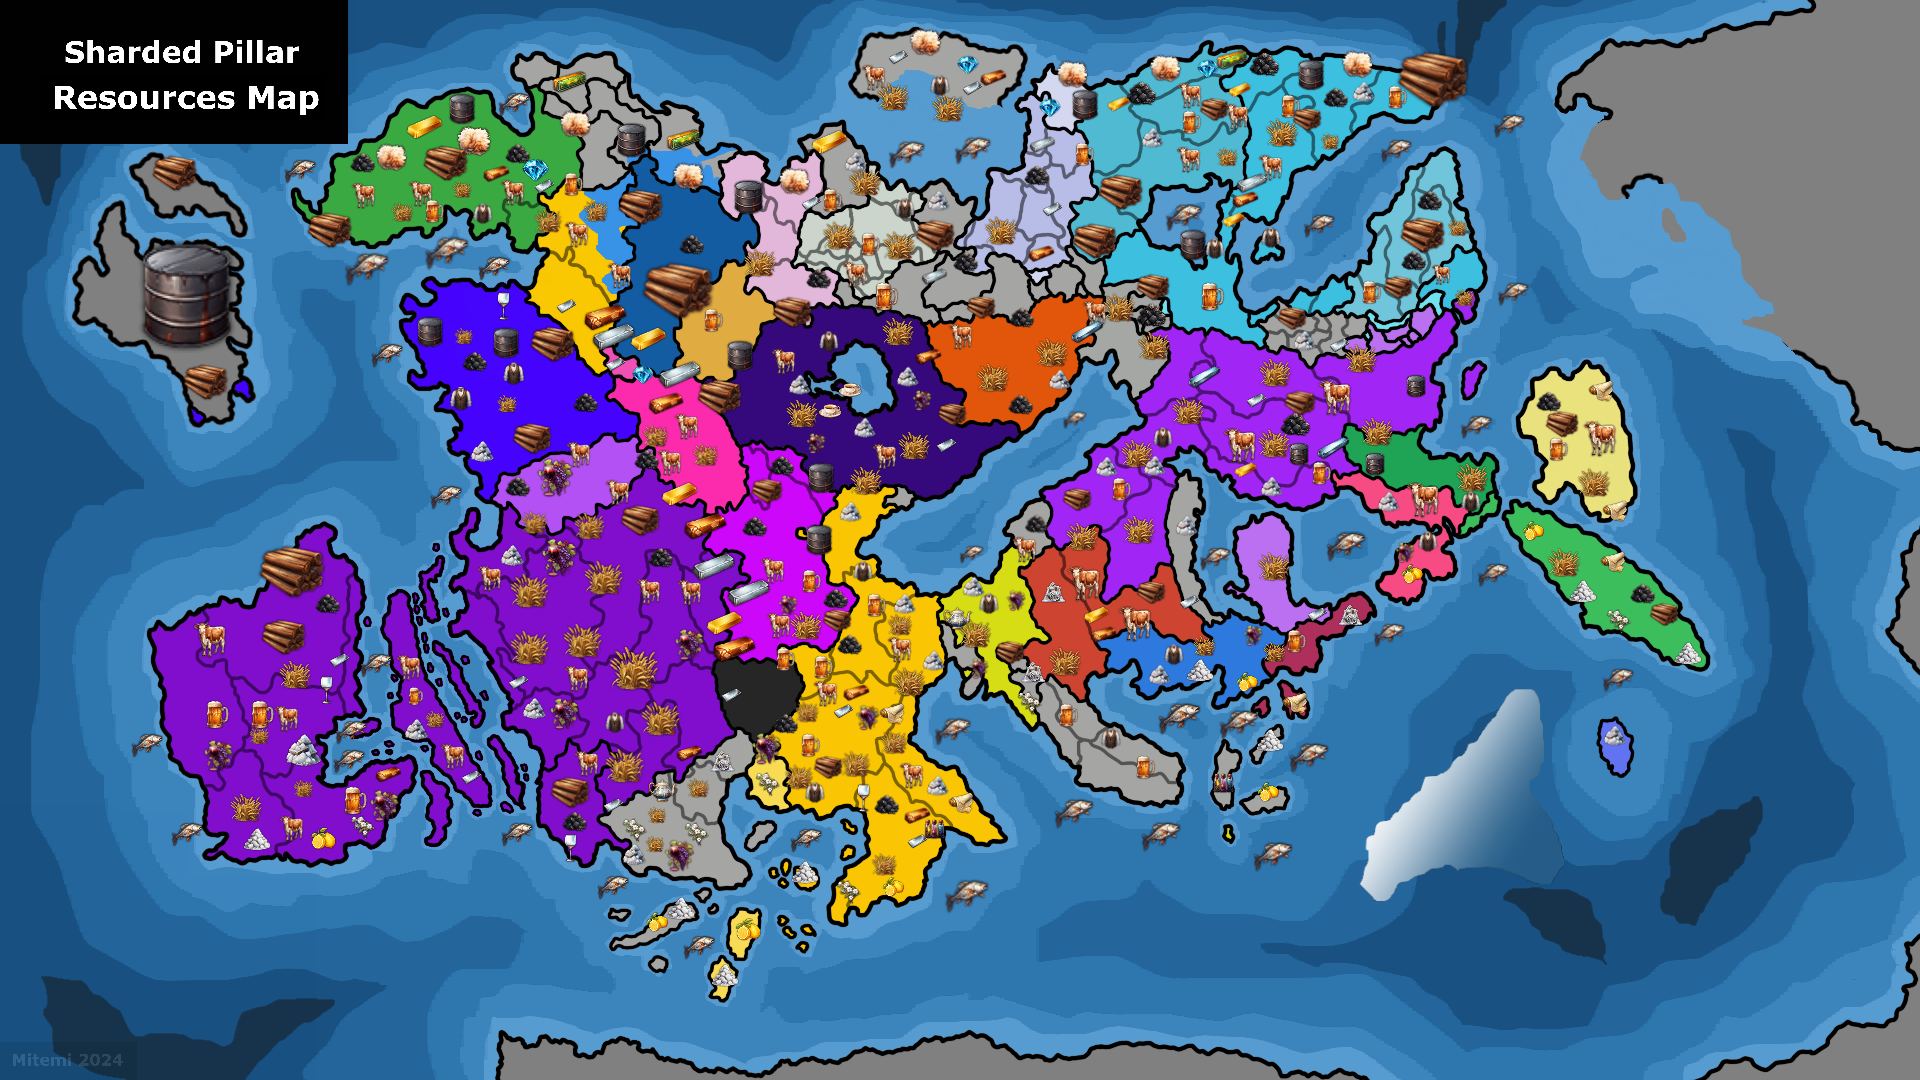
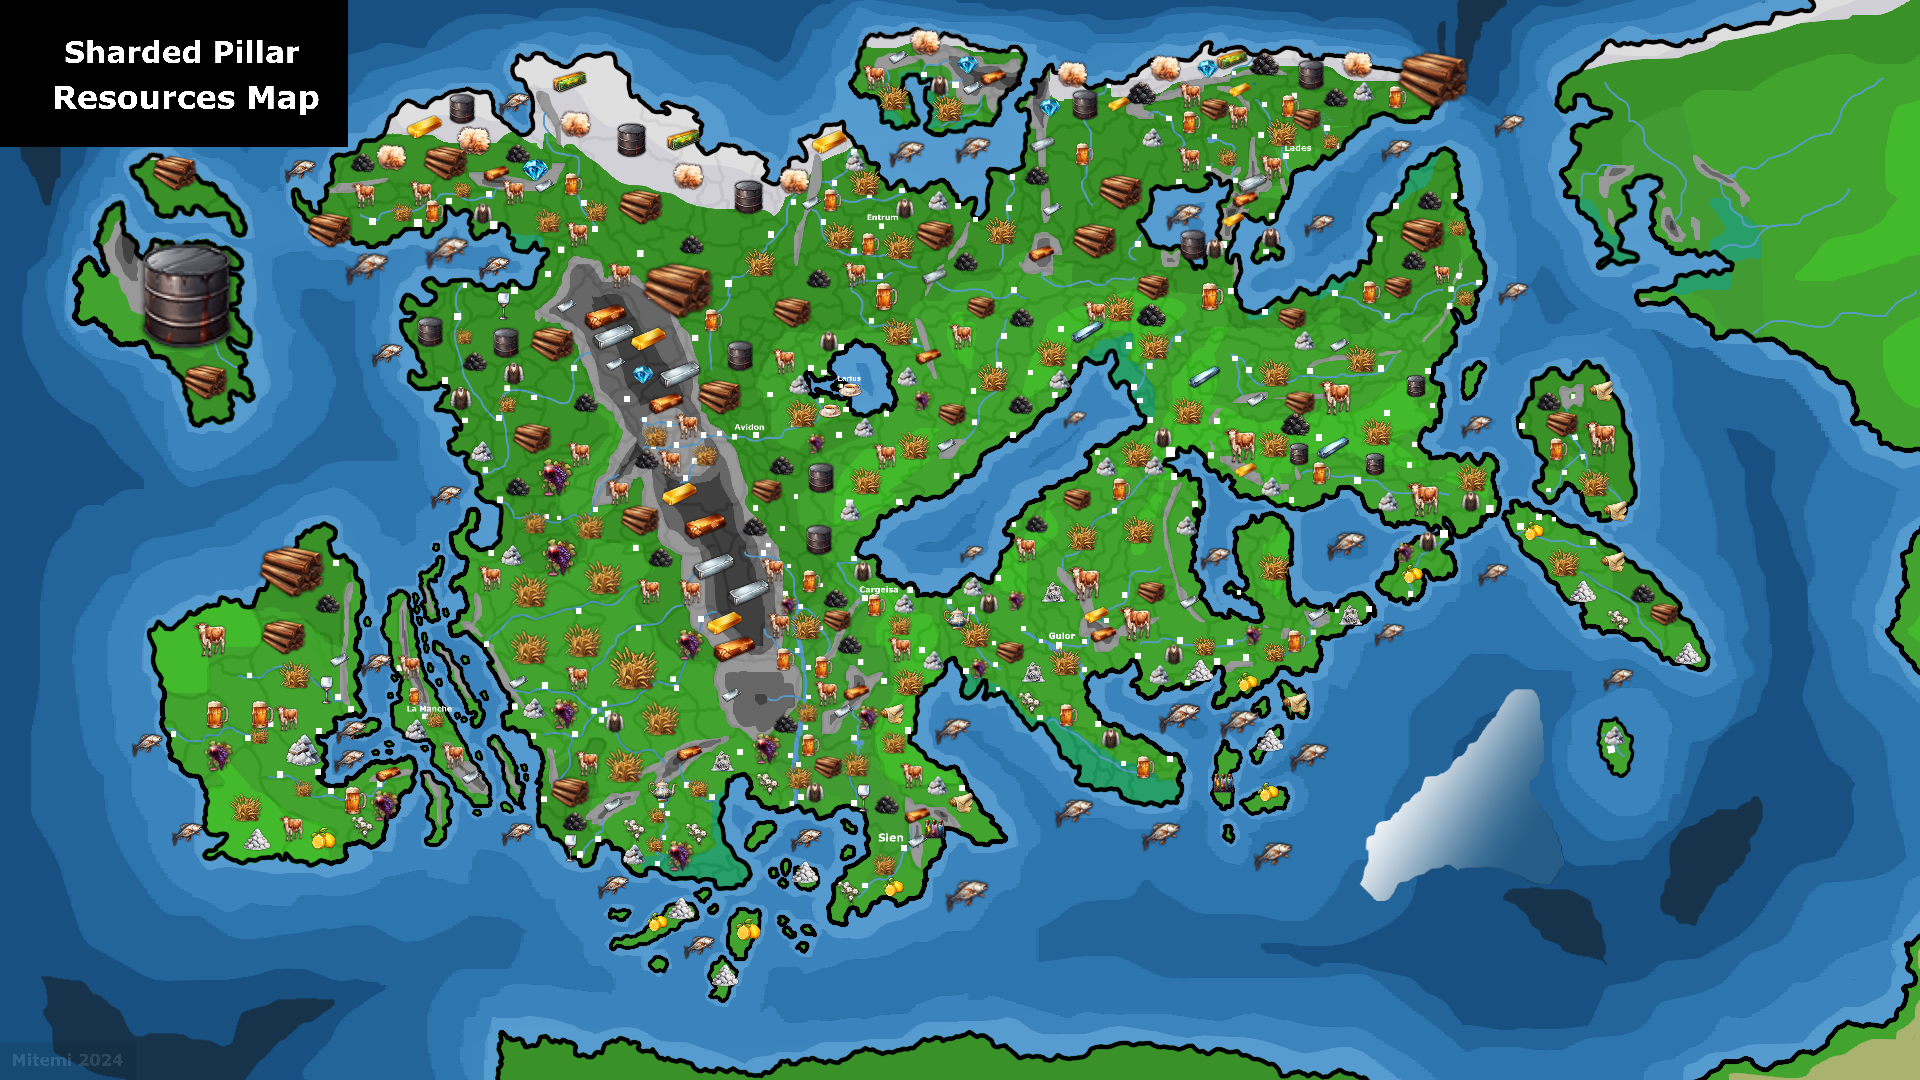
Update Map Viewer

diff --git a/projects/worldbuilding/map-viewer.htm b/projects/worldbuilding/map-viewer.htm
@@ -17,10 +17,14 @@
         <nav>
             <img src="../../../web/images/icon.svg" class="nav-logo" onclick="location = ('../../../index.htm')">
             <div class="navbutton">
-                <button onclick="location = ('https://etigeox.github.io/')"><a href="https://etigeox.github.io/">Tales</a></button>
-                <button onclick="location = ('../../projects/index.htm')"><a href="../../projects/index.htm">Projects</a></button>
-                <button onclick="location = ('../../archive/index.htm')"><a href="../../archive/index.htm">Archive</a></button>
-                <button onclick="location = ('../../games/index.htm')"><a href="../../games/index.htm">Games</a></button>
+                <button onclick="location = ('https://etigeox.github.io/')"><a
+                        href="https://etigeox.github.io/">Tales</a></button>
+                <button onclick="location = ('../../projects/index.htm')"><a
+                        href="../../projects/index.htm">Projects</a></button>
+                <button onclick="location = ('../../archive/index.htm')"><a
+                        href="../../archive/index.htm">Archive</a></button>
+                <button onclick="location = ('../../games/index.htm')"><a
+                        href="../../games/index.htm">Games</a></button>
             </div>
             <button class="exweb" onclick="location = ('../../web/web.htm')">⌗</button>
         </nav>
@@ -34,14 +38,35 @@
                 <img src="../../archive/uchronie/maps/70_shardedv4-relief.PNG" id="map">
             </div>
             <div class="bottombar">
-                <div class="button-container">
-                    <button id="backward">←</button>
-                    <button id="forward">→</button>
-                    <div class="checkmark">
-                        <input type="checkbox" id="text">
-                        <label for="text">Enable Text</label>
+                <div class="controls">
+                    <div class="button-container">
+                        <button id="backward">←</button>
+                        <button id="forward">→</button>
+                        <div class="checkmark">
+                            <input type="checkbox" id="text">
+                            <label for="text">Enable Text</label>
+                        </div>
+                        <button id="auto">⏩</button>
                     </div>
-                    <button id="auto">⏩</button>
+                    <div class="special">
+                        <p>Special Map Modes</p>
+                        <select>
+                            <option value="none">None</option>
+                            <option value="../../archive/uchronie/maps/100_shardedv4-resources.PNG">Resource Map</option>
+                            <option value="../../archive/uchronie/maps/71_shardedv4-provinces.PNG">Provinces Map</option>
+                            <option value="../../archive/uchronie/maps/72_shardedv4-ethnicities.PNG">Ethnic Map</option>
+                            <option value="../../archive/uchronie/maps/95_shardedv4-cities.PNG">Cities Map</option>
+                            <option value="../../archive/uchronie/maps/79_shardedv4-religions-291.PNG">Religious Map (291 AE)</option>
+                            <option value="../../archive/uchronie/maps/90_shardedv4-currency.PNG">Currency Map (788 AE)</option>
+                            <option value="../../archive/uchronie/maps/70_shardedv4-relief-outlineless.PNG"></option>
+                            <option value="../../archive/uchronie/maps/87_shardedv4-712.PNG">Great Fierian War</option>
+                            <option value="../../archive/uchronie/maps/97_shardedv4-657-triple-alliance-war.PNG">War of the Tripartite Alliance</option>
+                        </select>
+                    </div>
+                </div>
+                <div class="infobox">
+                    <p>0 AE</p>
+                    <p>Relief map displaying the elevation in the terrain of the Amatarian continent.</p>
                 </div>
             </div>
         </div>

diff --git a/projects/worldbuilding/map-viewer.js b/projects/worldbuilding/map-viewer.js
@@ -10,15 +10,27 @@ const auto = document.getElementById("auto");
 
 const centerView = document.querySelector(".center-view");
 const map = centerView.querySelector('img');
+const year = document.querySelector(".infobox p:nth-child(1)");
+const info = document.querySelector(".infobox p:nth-child(2)");
+const mapSelect = document.querySelector("select");
 
 let mapIndex = 0;
 
 const mapUpdate = v => {
-    if (v < 0) mapIndex = 0;
+    if (v < 0 || mapSelect.value != "none") mapIndex = 0;
     if (v > mapList.length - 1) mapIndex = mapList.length - 1;
 
-    map.src = checkText.checked ? mapList[mapIndex].map.replace(".PNG", "-text.PNG") : mapList[mapIndex].map;
+    if (mapSelect.value == "none") {
+        map.src = checkText.checked ? mapList[mapIndex].map.replace(".PNG", "-text.PNG") : mapList[mapIndex].map;
+    } else {
+        map.src = checkText.checked ? mapSelect.value.replace(".PNG", "-text.PNG") : mapSelect.value;
+    }
+
+    year.innerText = mapSelect.value != "none" ? "" : mapList[mapIndex].year;
+    info.innerText = mapSelect.value != "none" ? "" : mapList[mapIndex].info;
 };
+
+mapSelect.onchange = () => mapUpdate(mapIndex);
 
 forward.addEventListener('click', () => {
     mapIndex++;

diff --git a/projects/worldbuilding/map-viewer.css b/projects/worldbuilding/map-viewer.css
@@ -25,7 +25,7 @@ main {
 }
 
 .topbar {
-    height: 6.5%;
+    height: fit-content;
     background-color: var(--darkerer-gray);
 }
 
@@ -51,13 +51,34 @@ main {
 .bottombar {
     height: 15%;
     background-color: var(--darkerer-gray);
+    height: fit-content;
+
+    display: flex;
+    justify-content: space-between;
 }
 
-.button-container {
+.button-container, .special {
     display: flex;
     flex-flow: row;
+    align-items: center;
+    text-align: center;
 
     margin: 10px;
+}
+
+.special select {
+    margin-left: 20px;
+    margin-bottom: 7.5px;
+}
+
+.infobox {
+    width: 50%;
+    height: 100%;
+}
+
+.infobox p {
+    margin: 10px;
+    font-size: 0.8rem;
 }
 
 .checkmark {

diff --git a/css/styles.css b/css/styles.css
@@ -92,7 +92,7 @@ button:hover {
     user-select: none;
 }
 
-.navbutton a, .navbutton a:visited {
+.navbutton a, .navbutton a:visited, .navbutton a:link,  .navbutton a:active{
     background-color: rgba(0, 0, 0, 0);
     color: var(--dark-lime);
     text-decoration: none;
